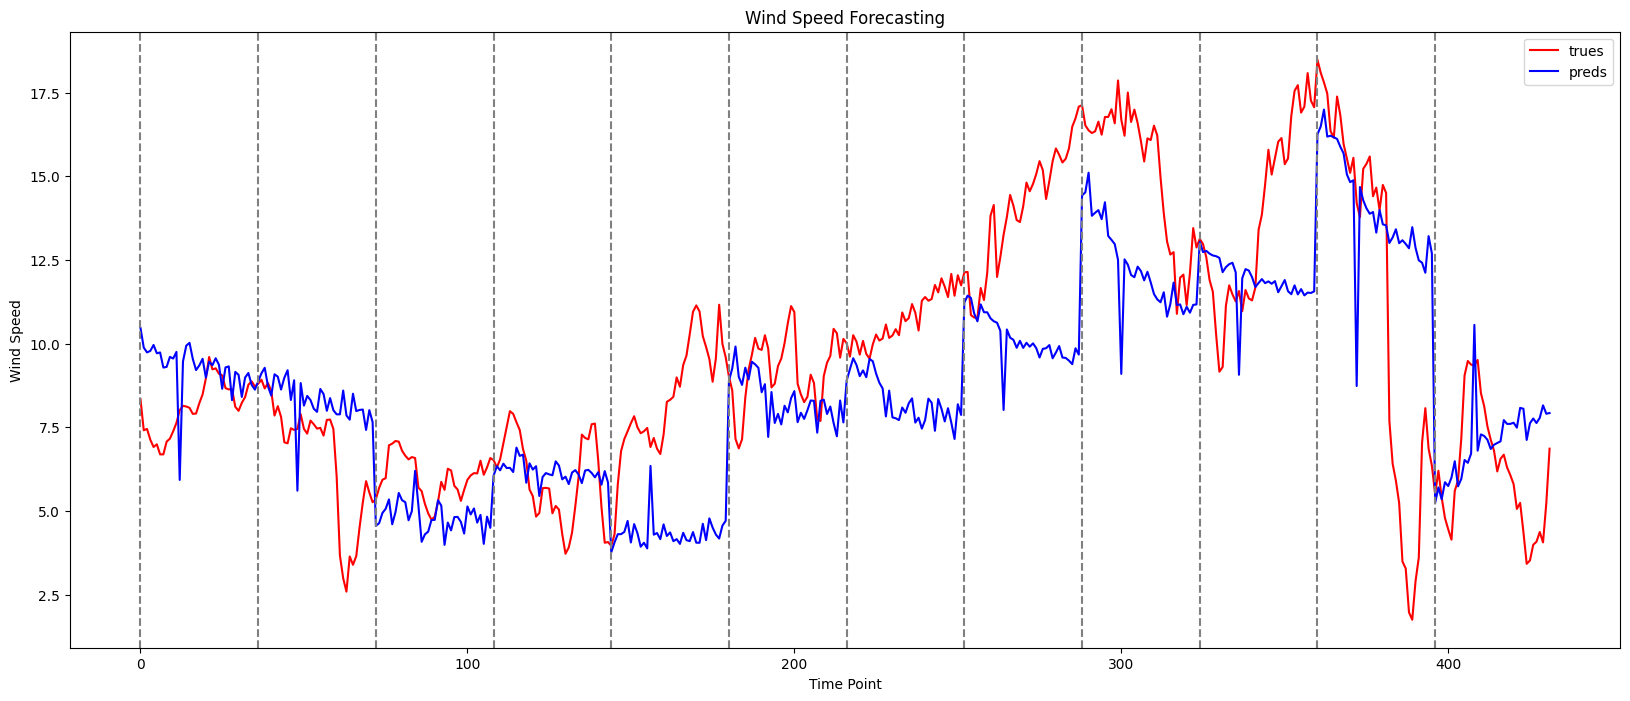
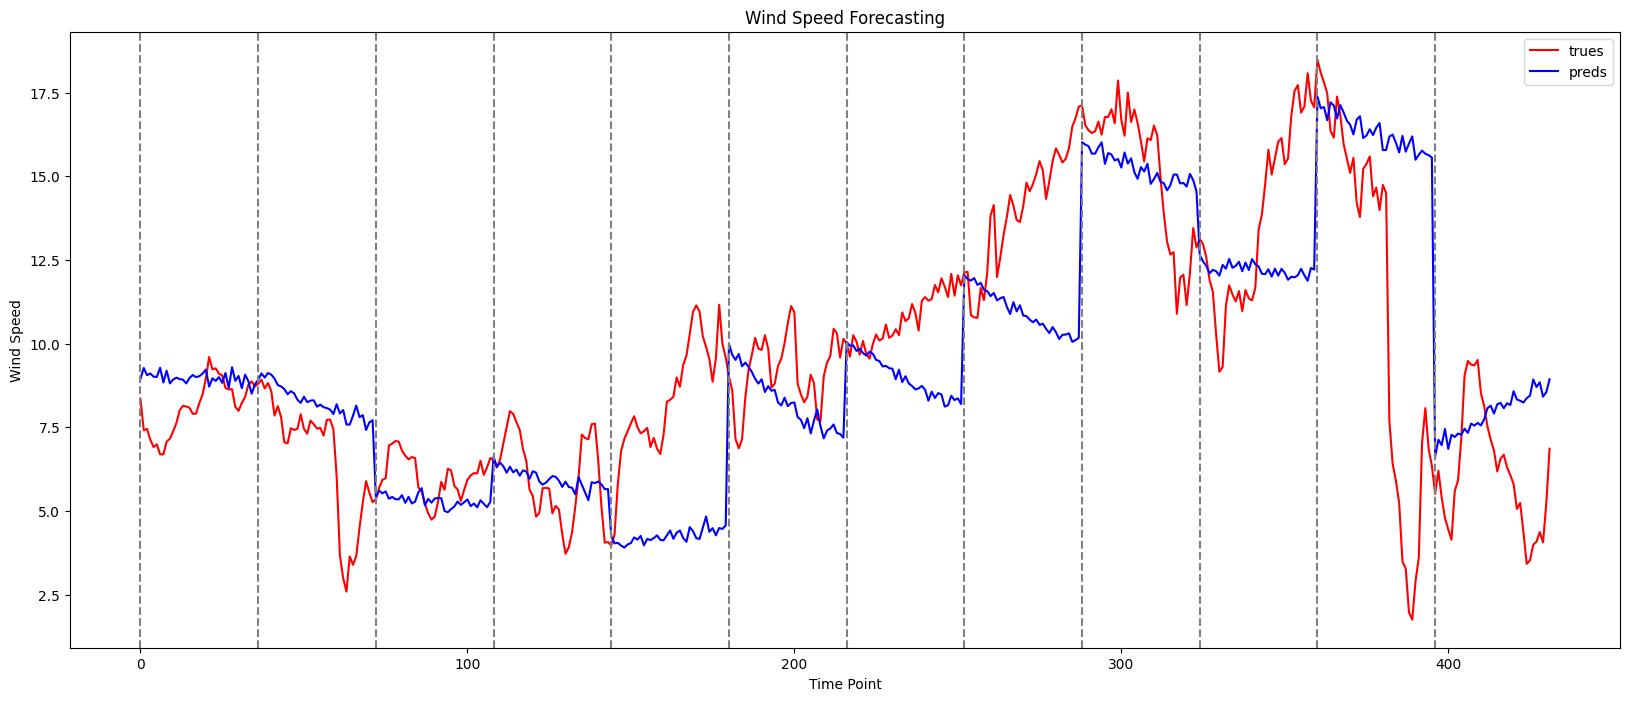
增加了对外生变量的计算,结果还不好

diff --git a/models/LightTime.py b/models/LightTime.py
@@ -1,9 +1,6 @@
 import torch
 import torch.nn as nn
 import torch.nn.functional as F
-
-# from layers.Embed import PatchEmbedding
-from layers.Autoformer_EncDec import series_decomp
 import math
 
 
@@ -12,20 +9,28 @@ class Model(nn.Module):
         super(Model, self).__init__()
         self.task_name = configs.task_name
         self.seq_len = configs.seq_len
+
         self.d_model = configs.d_model
+        self.ex_model = configs.d_model
+        self.model = (configs.d_model // 2) if configs.noEx else (configs.d_model)
+        print(f"model: {self.model}")
+        
         self.enc_in = configs.enc_in
         self.c_out = configs.c_out
+        
         self.dropout = configs.dropout
         self.d_ff = configs.d_ff
         self.n_heads = configs.n_heads
+        
         self.noEx = configs.noEx
 
         self.stride = configs.stride
         self.patch_len = configs.patch_len
         self.padding = self.stride
         self.patch_num = (
-            self.seq_len + self.stride * 2 - self.patch_len
+            (self.seq_len+1)//2 + self.stride * 2 - self.patch_len
         ) // self.stride
+
 
         if (
             self.task_name == "classification"
@@ -37,11 +42,18 @@ class Model(nn.Module):
         else:
             self.pred_len = configs.pred_len
 
-        if not self.noEx:
-            self.ex_conv = nn.Conv1d(9, 9, 9, 1, 4)
+        
 
         # 趋势分解
         self.decompsition = series_decomp(configs.moving_avg)
+        
+        # 卷积层 对参数很敏感
+        self.en_trend_conv = nn.Conv1d(1, 1, self.pred_len+1, 2, (self.pred_len)//2)
+        self.en_seasonal_conv = nn.Conv1d(1, 1, self.pred_len+1, 2, (self.pred_len)//2)
+        self.en_global_conv = nn.Conv1d(self.patch_num, self.patch_num, self.pred_len+1, 2, (self.pred_len)//2)
+        if not self.noEx:
+            self.ex_conv = nn.Conv1d(self.enc_in-1, self.enc_in-1, self.pred_len+1, 2, (self.pred_len)//2)
+            self.ex_global_conv = nn.Conv1d(self.patch_num, self.patch_num, self.pred_len+1, 2, (self.pred_len)//2)
 
         # Patch
         self.trend_embedding = PatchEmbedding(
@@ -50,39 +62,30 @@ class Model(nn.Module):
         self.en_patch_embedding = PatchEmbedding(
             self.d_model // 4 * 3, self.patch_len, self.stride, self.padding, self.dropout
         )
-        # self.en_weights = nn.Parameter(torch.ones(self.patch_num,self.d_model))
-        # self.de_weights = nn.Parameter(torch.zeros(self.pred_len,self.d_model))
+
         if not self.noEx:
             self.ex_patch_embedding = PatchEmbedding(
-                self.d_model + 64,
+                self.ex_model,
                 self.patch_len,
                 self.stride,
                 self.padding,
                 self.dropout,
             )
+            self.ex_projection = nn.Linear(self.ex_model * (self.enc_in-1) // 2, self.d_model //2)
 
-        #self.global_position_embedding = LearnablePositionalEmbedding(self.patch_num)
         # 线性运算
-        if self.noEx:
-            self.linear1 = nn.Linear(self.patch_num, self.n_heads)
-        else:
-            self.linear1 = nn.Linear(
-                self.patch_num + (self.enc_in - 1) * 2, self.n_heads
-            )
+        self.linear1 = nn.Linear(self.patch_num, self.n_heads)
+        self.linear2 = nn.Linear(self.model, self.d_model)
         self.linearBlocks = nn.Sequential(
             *[LinearBlock(self.d_model,self.n_heads,self.dropout) for _ in range(2)]
         )
 
         # Decoder
         self.decoder_TimeExpend = nn.Linear(self.n_heads, self.pred_len)
-        # self.decoder_batchNormal = nn.BatchNorm1d(self.d_model)
         self.decoder_varShrink = nn.Linear((self.d_model), self.c_out)
 
     def forward(self, x_enc, x_mark_enc, x_dec, x_mark_dec, mask=None):
-        if (
-            self.task_name == "long_term_forecast"
-            or self.task_name == "short_term_forecast"
-        ):
+        if (self.task_name == "long_term_forecast" or self.task_name == "short_term_forecast"):
             dec_out = self.forecast(x_enc)
             return dec_out[:, -self.pred_len :, :]  # [B, L, D]
         else:
@@ -91,12 +94,11 @@ class Model(nn.Module):
     def forecast(self, x_enc):
         # [batch_size, seq_len, enc_in]
 
-        # region Step1: Normalization
+        # Step1: Normalization
         means = x_enc.mean(1, keepdim=True).detach()
         x_enc = x_enc - means
         stdev = torch.sqrt(torch.var(x_enc, dim=1, keepdim=True, unbiased=False) + 1e-5)
         x_enc /= stdev
-        # endregion
 
         # Step2: Encoder
         enc_out = self.encoder(x_enc)
@@ -105,7 +107,7 @@ class Model(nn.Module):
         dec_out = self.decoder(enc_out)
         # [batch_size, pred_len, c_out]
 
-        # region Step4: De-Normalization from Non-stationary Transformer
+        # Step4: De-Normalization from Non-stationary Transformer
         # print(stdev[:, 0, 0].unsqueeze(1).unsqueeze(2).repeat(1,self.pred_len,1))#.unsqueeze(1).unsqueeze(2).repeat(1,self.pred_len,1).shape)
         dec_out = dec_out * (
             stdev[:, 0, -1].unsqueeze(1).unsqueeze(2).repeat(1, self.pred_len, 1)
@@ -113,49 +115,79 @@ class Model(nn.Module):
         dec_out = dec_out + (
             means[:, 0, -1].unsqueeze(1).unsqueeze(2).repeat(1, self.pred_len, 1)
         )
-        # endregion
         return dec_out
 
     def encoder(self, x_enc):
         # Step1: 区分External和Endogenous变量
+        # [batch_size, enc_in, seq_len]
         x_en = x_enc[:, :, -1:]
         x_ex = x_enc[:, :, 0:-1]
-
-        # Step1: 处理External变量
+        
+        # Step2: 处理External变量
+        # [batch_size,self.ex_model*n_vars, patch_num]
+        ex_out = None
         if not self.noEx:
             ex_out, n_vars = self.x_ex_encoder(x_ex)
-        # [batch_size, n_heads, d_model]
-
-        # Step2: 处理Endogenous变量
+        
+        
+        # Step3: 处理Endogenous变量
+        # [batch_size, d_model, patch_num]
         en_out = self.x_en_encoder(x_en)
+        
 
-        # Step3: External和Endogenous融合
+        #Step4: External和Endogenous融合
         if not self.noEx:
-            enc_out = torch.cat([ex_out, en_out], dim=-1)
-            # [batch_size, d_model, patch_num+enc_in-1]
+            ex_out = ex_out.permute(0, 2, 1)  
+            ex_out = F.relu(self.ex_projection(ex_out))  
+            en_out = en_out.permute(0, 2, 1)  
+
+            enc_out = torch.cat([ex_out, en_out], dim=-1)  
+            enc_out = enc_out.permute(0, 2, 1)  
         else:
             enc_out = en_out
-            # [batch_size, d_model, patch_num]
-        # enc_out = enc_out.permute(0,2,1)
+        # Step4: 使用注意力机制融合External和Endogenous变量
+        # if not self.noEx:
+        #     # 调整维度以适应注意力计算
+        #     ex_out = ex_out.permute(0, 2, 1)  # [batch_size, patch_num, ex_model*n_vars]
+        #     ex_out = F.relu(self.ex_projection(ex_out))  # [batch_size, patch_num, d_model]
+        #     en_out = en_out.permute(0, 2, 1)  # [batch_size, patch_num, d_model]
 
-        enc_out = self.linear1(enc_out)
-        enc_out = F.sigmoid(enc_out).permute(0, 2, 1)
+        #     # 计算注意力权重
+        #     attention_scores = torch.bmm(en_out, ex_out.transpose(1, 2))  # [batch_size, patch_num, ex_model*n_vars]
+        #     attention_weights = F.softmax(attention_scores, dim=-1)  # [batch_size, patch_num, ex_model*n_vars]
+        #     print(attention_weights)
+
+        #     # 应用注意力权重加权外生特征
+        #     weighted_ex_out = torch.bmm(attention_weights, ex_out)  # [batch_size, patch_num, d_model]
+
+        #     # 融合内生和加权后的外生特征
+        #     enc_out = torch.cat([weighted_ex_out, en_out], dim=-1)  # [batch_size, patch_num, d_model + d_model]
+        #     enc_out = enc_out.permute(0, 2, 1)  # [batch_size, d_model + d_model, patch_num]
+        # else:
+        #     enc_out = en_out
+
+        # Step4: 线性运算
+        enc_out = self.linear1(enc_out).permute(0, 2, 1)
+        enc_out = F.sigmoid(enc_out)
+        enc_out = F.dropout(enc_out, self.dropout)
+        enc_out = self.linear2(enc_out)
+        enc_out = F.sigmoid(enc_out)
+        # [batch_size, n_heads, d_model]
         enc_out = self.linearBlocks(enc_out)
         # [batch_size, n_heads, d_model]
         return enc_out
 
     def x_ex_encoder(self, x_ex):
         # [batch_size, patch_len, enc_in-1]
-        # [batch_size, patch_len, enc_in-1]
         x_ex = x_ex.permute(0, 2, 1)
         x_ex = self.ex_conv(x_ex)
-        x_ex = x_ex[:, :, -self.patch_len :]
         ex_out, n_vars = self.ex_patch_embedding(x_ex)
-        # [batch_size*n_vars, d_model, 1]
+        # [batch_size*n_vars, d_model, patch_num]
         batch_size = x_ex.size(0)
-        ex_out = ex_out.reshape([batch_size, self.d_model + 64, n_vars * 2])
-        # [batch_size,d_model,n_vars]
-        return ex_out, n_vars
+        ex_out = ex_out.reshape([batch_size, self.ex_model*n_vars, -1])
+        # [batch_size,self.ex_model*n_vars, patch_num]
+        ex_out = self.ex_global_conv(ex_out.permute(0,2,1)).permute(0,2,1)
+        return ex_out, self.ex_model*n_vars
 
     def x_en_encoder(self, x_en):
         # [batch_size, seq_len, 1]
@@ -166,16 +198,14 @@ class Model(nn.Module):
             trend_init.permute(0, 2, 1),
         )
 
-        trend_out, n_vars = self.trend_embedding(trend_init)
-        trend_out = trend_out.permute(0, 2, 1)
-        # # [batch_size, 16, patch_num]
-        x_en_out, n_vars = self.en_patch_embedding(seasonal_init)
-        x_en_out = x_en_out.permute(0, 2, 1)
-        # [batch_size, d_model, patch_num]
+        trend_out = self.en_trend_conv(trend_init)
+        trend_out, n_vars = self.trend_embedding(trend_out)
+        
+        x_en_out = self.en_seasonal_conv(seasonal_init)
+        x_en_out, n_vars = self.en_patch_embedding(x_en_out)
 
-        x_en_out = torch.cat([x_en_out, trend_out], dim=1)
-        # x_en_out = x_en_out * self.en_weights.permute(1,0)
-        # x_en_out = x_en_out * self.global_position_embedding(x_en_out)
+        x_en_out = torch.cat([x_en_out, trend_out], dim=-1)
+        x_en_out = self.en_global_conv(x_en_out).permute(0,2,1)
 
         return x_en_out
 
@@ -235,6 +265,31 @@ class PatchEmbedding(nn.Module):
         x = self.dropout(x)
         return x, n_vars
 
+class series_decomp(nn.Module):
+    def __init__(self, kernel_size):
+        super(series_decomp, self).__init__()
+        self.moving_avg = moving_avg(kernel_size, stride=1)
+
+    def forward(self, x):
+        moving_mean = self.moving_avg(x)
+        res = x - moving_mean
+        return res, moving_mean
+    
+class moving_avg(nn.Module):
+    def __init__(self, kernel_size, stride):
+        super(moving_avg, self).__init__()
+        self.kernel_size = kernel_size
+        self.avg = nn.AvgPool1d(kernel_size=kernel_size, stride=stride, padding=0)
+
+    def forward(self, x):
+        # padding on the both ends of time series
+        front = x[:, 0:1, :].repeat(1, (self.kernel_size - 1) // 2, 1)
+        end = x[:, -1:, :].repeat(1, (self.kernel_size - 1) // 2, 1)
+        x = torch.cat([front, x, end], dim=1)
+        x = self.avg(x.permute(0, 2, 1))
+        x = x.permute(0, 2, 1)
+        return x
+
 
 class PositionalEmbedding(nn.Module):
     def __init__(self, d_model, max_len=5000):
@@ -259,9 +314,11 @@ class PositionalEmbedding(nn.Module):
 
 
 class LearnablePositionalEmbedding(nn.Module):
-    def __init__(self, d_model, max_len=1500):
+    def __init__(self, d_model):
         super(LearnablePositionalEmbedding, self).__init__()
-        self.pe = nn.Parameter(torch.zeros(max_len, d_model))
+        self.pe = nn.Parameter(torch.zeros(1, d_model))
+        torch.nn.init.xavier_uniform_(self.pe)
 
     def forward(self, x):
-        return self.pe[: x.size(1), :].unsqueeze(0)
+        # x: [batch_size, d_model, n]
+        return x + self.pe.unsqueeze(2).expand_as(x)

diff --git a/exp/exp_long_term_forecasting.py b/exp/exp_long_term_forecasting.py
@@ -252,8 +252,10 @@ class Exp_Long_Term_Forecast(Exp_Basic):
                     expanded_outputs[:, :, -1] = outputs[:, :, -1]
                     expanded_outputs[:, :, 0:-1] = batch_y[:, :, 0:-1]
                     outputs = expanded_outputs
-                    outputs = test_data.inverse_transform(outputs.squeeze(0))[:,-1:].reshape(shape)
-                    batch_y = test_data.inverse_transform(batch_y.squeeze(0))[:,-1:].reshape(shape)
+                    # outputs = test_data.inverse_transform(outputs.squeeze(0))[:,-1:].reshape(shape)
+                    # batch_y = test_data.inverse_transform(batch_y.squeeze(0))[:,-1:].reshape(shape)
+                    outputs = test_data.inverse_transform(outputs.reshape(shape[0]*shape[1],shape[2]*10))[:,-1:].reshape(shape)
+                    batch_y = test_data.inverse_transform(batch_y.reshape(shape[0]*shape[1],shape[2]*10))[:,-1:].reshape(shape)
         
                 outputs = outputs[:, :, f_dim:]
                 batch_y = batch_y[:, :, f_dim:]
@@ -273,14 +275,14 @@ class Exp_Long_Term_Forecast(Exp_Basic):
 
                 preds.append(pred)
                 trues.append(true)
-                if i % 20 == 0:
-                    input = batch_x.detach().cpu().numpy()
-                    if test_data.scale and self.args.inverse:
-                        shape = input.shape
-                        input = test_data.inverse_transform(input.squeeze(0)).reshape(shape)
-                    gt = np.concatenate((input[0, :, -1], true[0, :, -1]), axis=0)
-                    pd = np.concatenate((input[0, :, -1], pred[0, :, -1]), axis=0)
-                    visual(gt, pd, os.path.join(folder_path, str(i) + '.pdf'))
+                # if i % 20 == 0:
+                #     input = batch_x.detach().cpu().numpy()
+                #     if test_data.scale and self.args.inverse:
+                #         shape = input.shape
+                #         input = test_data.inverse_transform(input.squeeze(0)).reshape(shape)
+                #     gt = np.concatenate((input[0, :, -1], true[0, :, -1]), axis=0)
+                #     pd = np.concatenate((input[0, :, -1], pred[0, :, -1]), axis=0)
+                #     visual(gt, pd, os.path.join(folder_path, str(i) + '.pdf'))
 
         preds = np.array(preds)
         trues = np.array(trues)

diff --git a/data_provider/data_factory.py b/data_provider/data_factory.py
@@ -29,7 +29,7 @@ def data_provider(args, flag):
         if args.task_name == 'anomaly_detection' or args.task_name == 'classification':
             batch_size = args.batch_size
         else:
-            batch_size = 1  # bsz=1 for evaluation
+            batch_size = args.batch_size #1  # bsz=1 for evaluation
         freq = args.freq
     else:
         shuffle_flag = True
